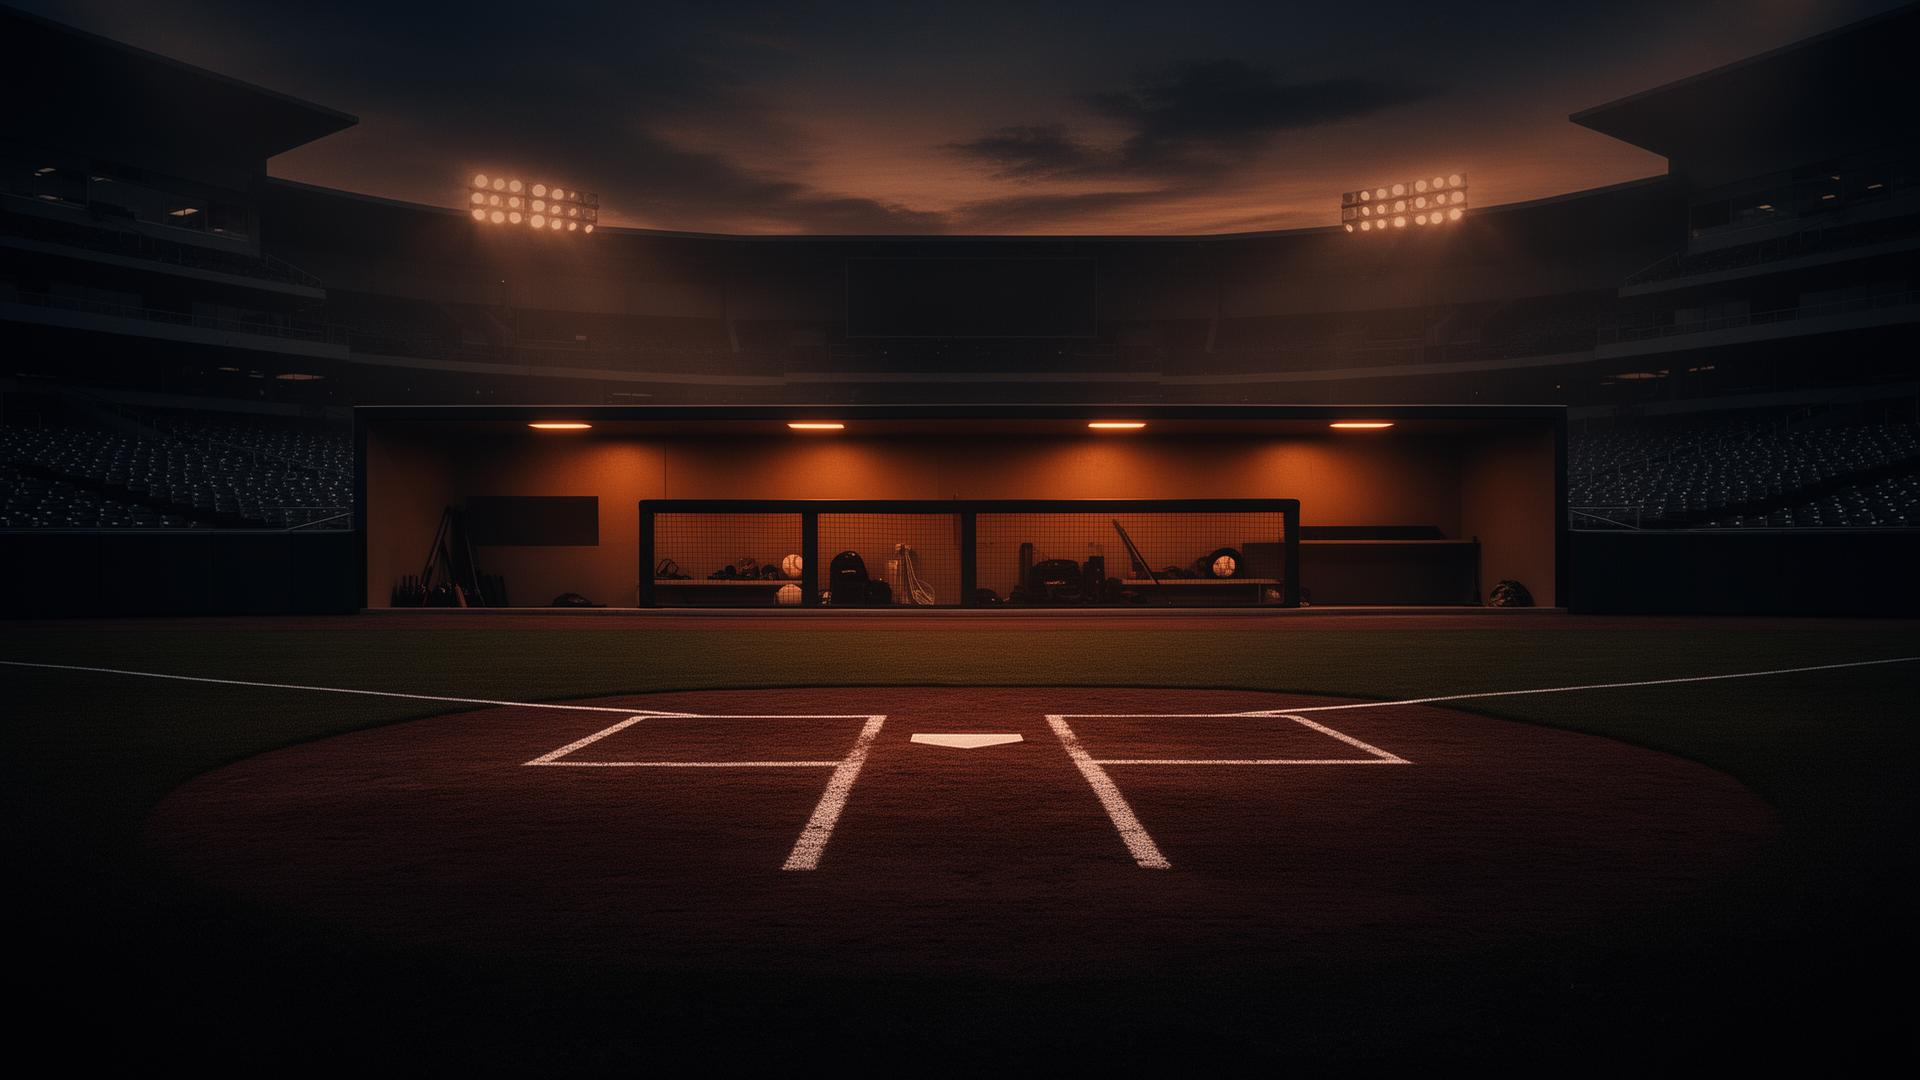
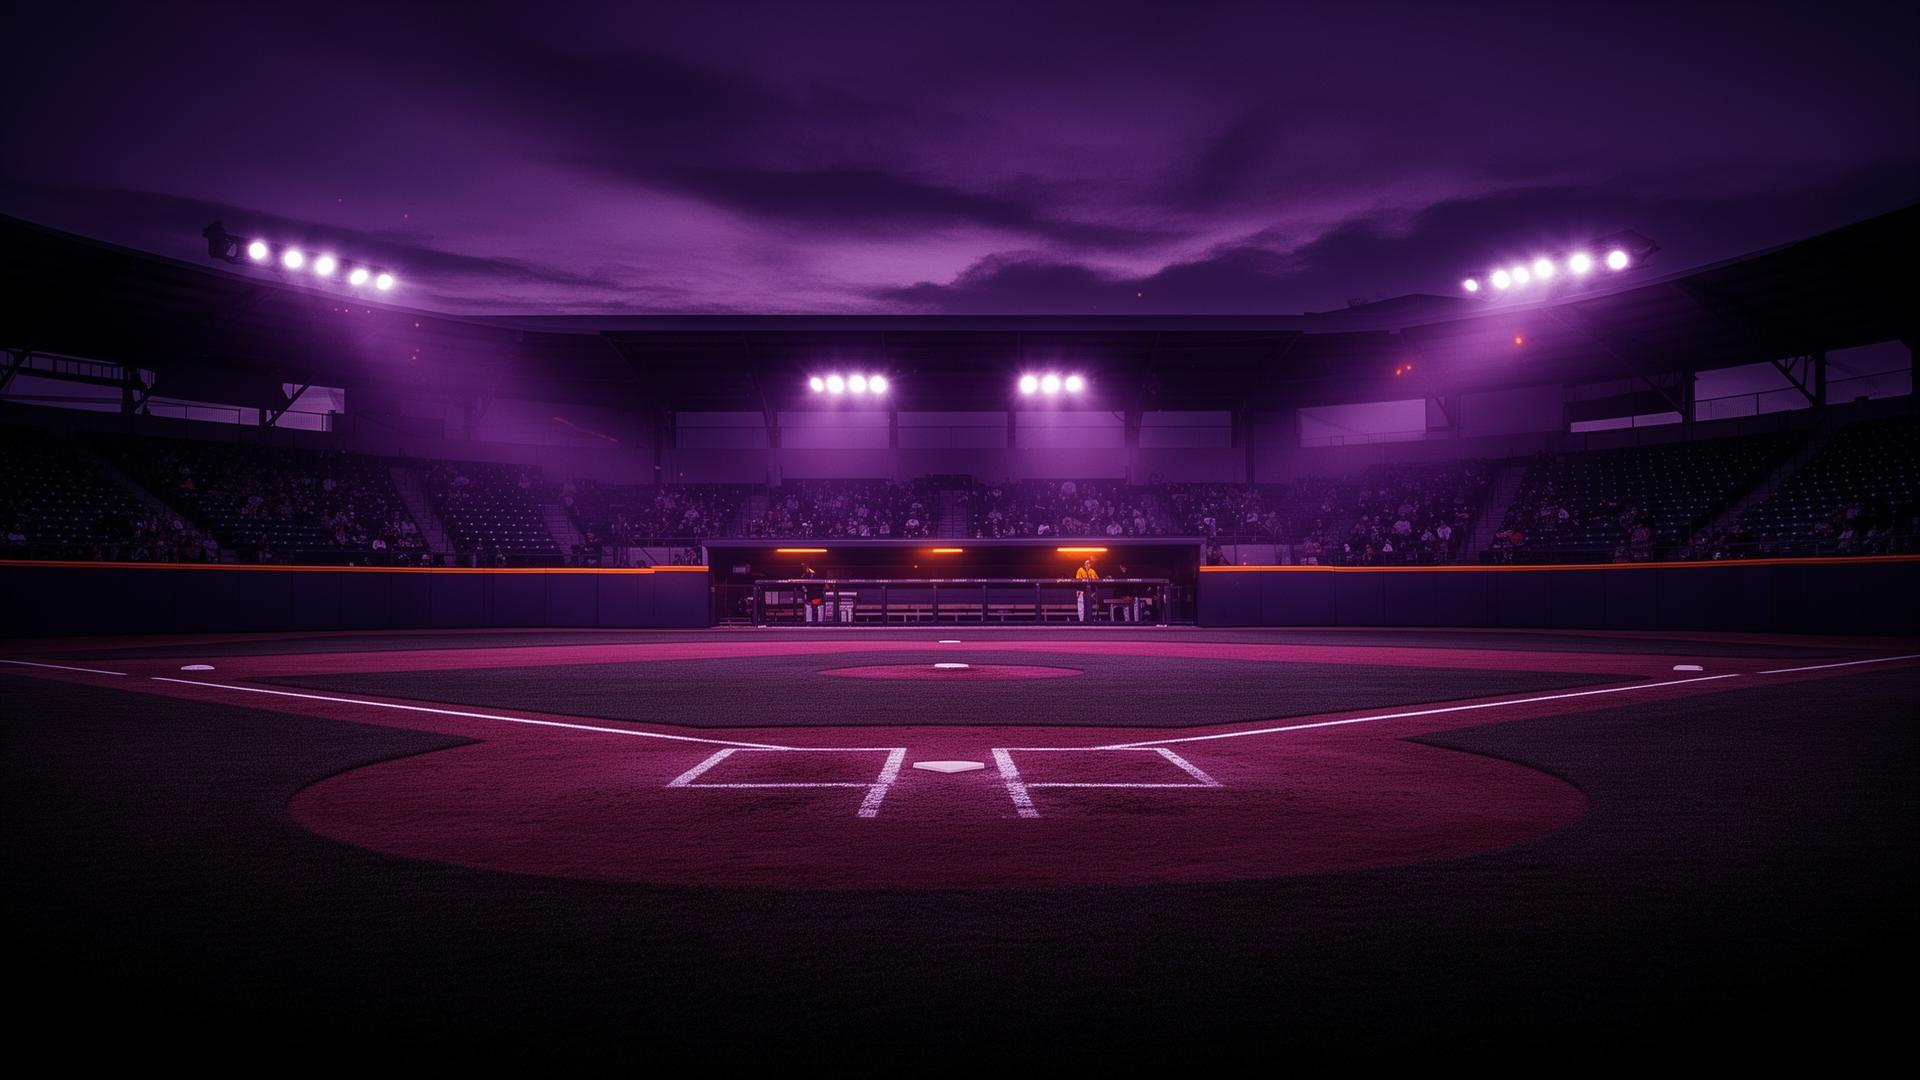
Changes

diff --git a/src/components/HeroSection.tsx b/src/components/HeroSection.tsx
@@ -1,16 +1,21 @@
 import { Button } from "@/components/ui/button";
 import { ChevronDown } from "lucide-react";
 import clubhouseLogo from "@/assets/clubhouse-logo.png";
+import heroBg from "@/assets/hero-bg.jpg";
 
 const HeroSection = () => {
   return (
     <section className="relative min-h-[85vh] flex items-center justify-center overflow-hidden">
-      {/* Gradient Background */}
-      <div className="absolute inset-0 bg-gradient-to-b from-[hsl(270_50%_15%)] via-background to-background" />
+      {/* Background Image */}
+      <div 
+        className="absolute inset-0 bg-cover bg-center bg-no-repeat"
+        style={{ backgroundImage: `url(${heroBg})` }}
+      >
+        <div className="absolute inset-0 bg-gradient-to-b from-background/60 via-background/40 to-background" />
+      </div>
       
       {/* Animated glow */}
-      <div className="absolute top-1/3 left-1/2 -translate-x-1/2 -translate-y-1/2 w-[600px] h-[600px] bg-primary/20 rounded-full blur-3xl animate-pulse-glow" />
-      <div className="absolute top-1/2 left-1/4 w-[300px] h-[300px] bg-accent/10 rounded-full blur-3xl" />
+      <div className="absolute top-1/3 left-1/2 -translate-x-1/2 -translate-y-1/2 w-[600px] h-[600px] bg-primary/15 rounded-full blur-3xl animate-pulse-glow" />
       
       <div className="relative z-10 container mx-auto px-4 text-center">
         <div className="max-w-4xl mx-auto">
